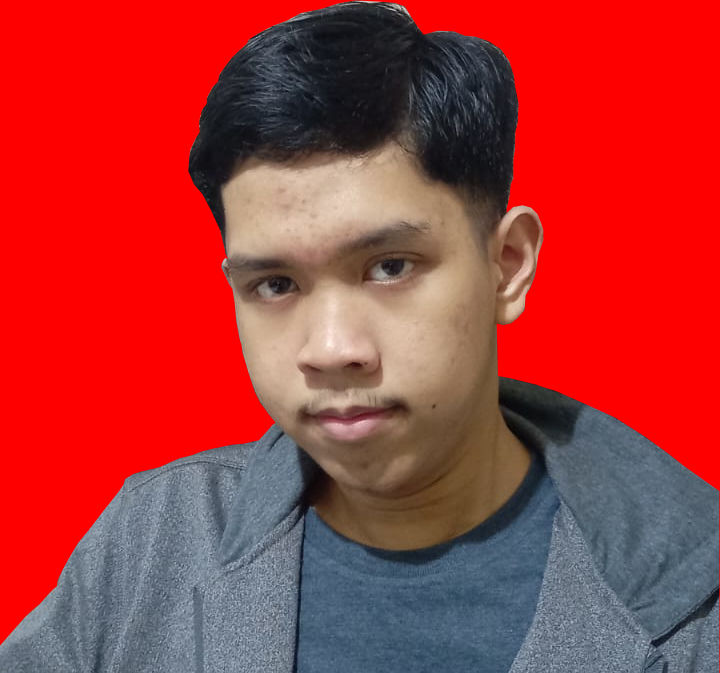
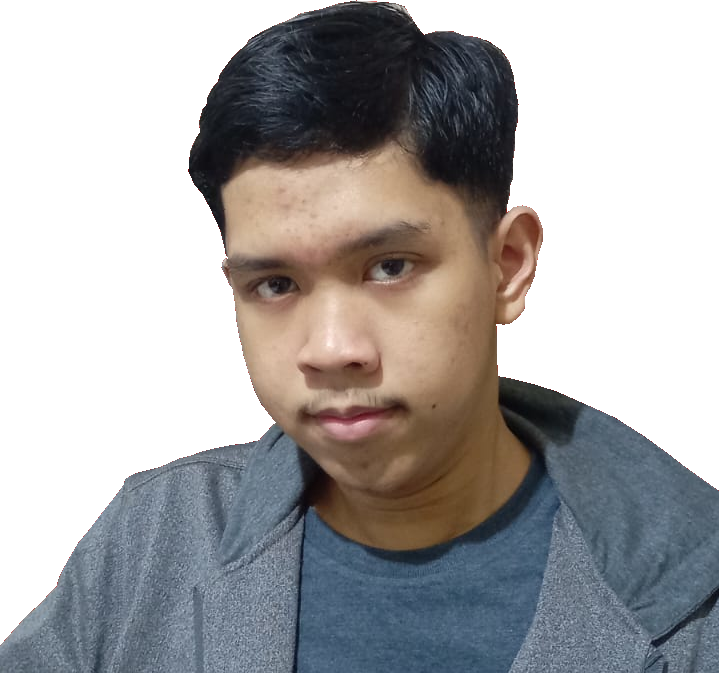
major site updates

diff --git a/contact.html b/contact.html
@@ -38,24 +38,10 @@
                 <div class="col-lg-6">
                     <div class="text-center mb-5">
                         <h2 class="display-4 fw-bold">GET IN TOUCH!</h2>
-                        <p>Fill out the form below to send me an email directly.</p>
+                        <p>contact me with email or on these platforms below</p>
                     </div>
                     <div class="card bg-card border-0 p-4 shadow">
-                        <form id="contact-form" action="https://formspree.io/f/YOUR_FORM_ID" method="POST">
-                            <div class="mb-3">
-                                <label class="form-label text-muted small fw-bold">NAME</label>
-                                <input type="text" name="name" class="form-control border-secondary text-white" required>
-                            </div>
-                            <div class="mb-3">
-                                <label class="form-label text-muted small fw-bold">EMAIL</label>
-                                <input type="email" name="email" class="form-control  border-secondary text-white" required>
-                            </div>
-                            <div class="mb-3">
-                                <label class="form-label text-muted small fw-bold">MESSAGE</label>
-                                <textarea name="message" rows="4" class="form-control border-secondary text-white" required></textarea>
-                            </div>
-                            <button type="submit" class="btn send-message-btn w-100">Send Message</button>
-                        </form>
+                        
                     </div>
                 </div>
             </div>

diff --git a/index.html b/index.html
@@ -37,9 +37,9 @@
             <div class="container">
                 <div class="row align-items-center">
                     <div class="col-lg-8">
-                        <span class="homepage-title-welcome text-primary fw-bold text-uppercase">portfolio salman bermano</span>
-                        <h1 class="display-2 fw-bold mb-4 homepage-title">SELAMAT DATANG!</h1>
-                        <a href="my-work.html" class="btn btn-primary btn-lg rounded-pill px-5 spa-link">see my work</a>
+                        <span class="homepage-title-welcome text-primary fw-bold text-uppercase">salman bermano's portfolio</span>
+                        <h1 class="display-2 fw-bold mb-4 homepage-title">WELCOME!</h1>
+                        <a href="my-work.html" class="btn btn-primary btn-lg rounded-pill px-5 spa-link">my work</a>
                     </div>
                 </div>
             </div>

diff --git a/about.html b/about.html
@@ -37,7 +37,7 @@
             <div class="row align-items-center justify-content-center">
                 
                 <div class="col-md-4 text-center mb-4 mb-md-0">
-                    <img src=".\saya.png" alt="Salman Bermano" class="img-fluid shadow-lg" style="max-width: 250px;">
+                    <img src=".\saya.png" alt="Salman Bermano" class="img-fluid shadow-lg my-image" style="max-width: 250px;">
                 </div>
     
                 <div class="col-md-8">

diff --git a/style.css b/style.css
@@ -188,3 +188,7 @@ footer {
     background-color: var(--text-muted);
     color: var(--bg-dark);
 }
+
+img.my-image {
+    border-radius: 20%;
+}
